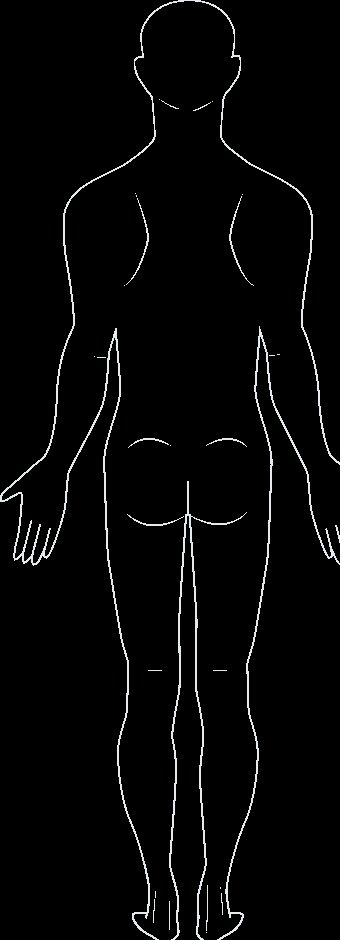
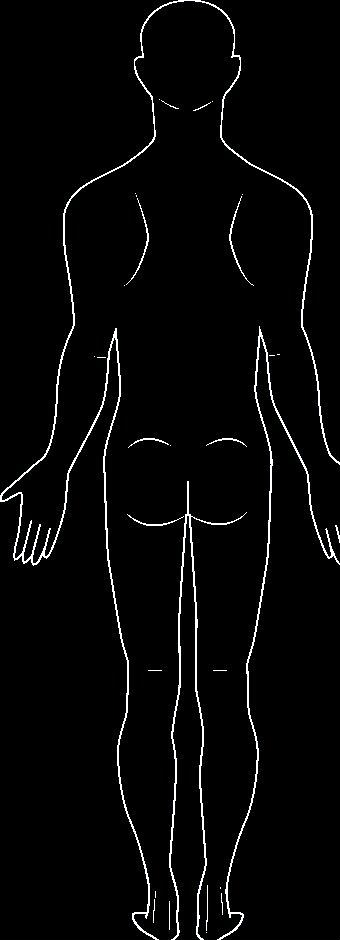
fix: transparent PNG backgrounds for body silhouettes

Changed region(s): [[0.5137, 0.5483, 0.544, 0.5788], [0.3022, 0.3351, 0.3324, 0.3655]]

diff --git a/src/App.jsx b/src/App.jsx
@@ -797,7 +797,8 @@ const OC_REGION_COORDS = {
 function BodySilhouetteImg({ side }) {
   const src = side === "back" ? "/back_body_clean.png" : "/front_body_clean.png"
   return (
-   <img src={src} alt={side + " body"} style={{ width: "100%", display: "block", background: "transparent", filter: "invert(1)", mixBlendMode: "screen" }} />
+   <img src={src} alt={side + " body"} style={{ width: "100%", display: "block" }} />
+
   )
 }// Keep a thin shim so any remaining references compile during transition
 function BodySilhouetteSVG() {
